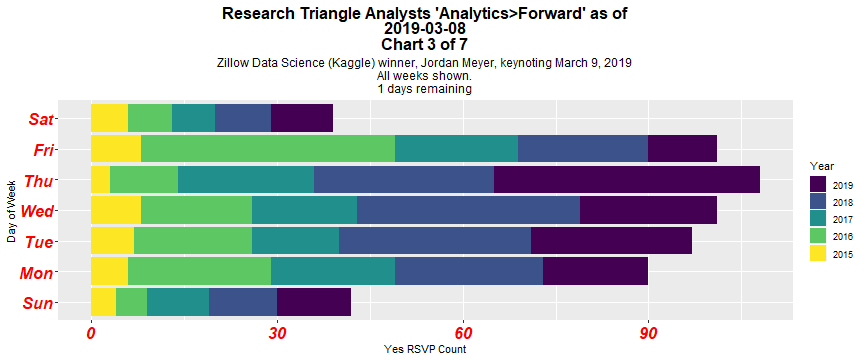
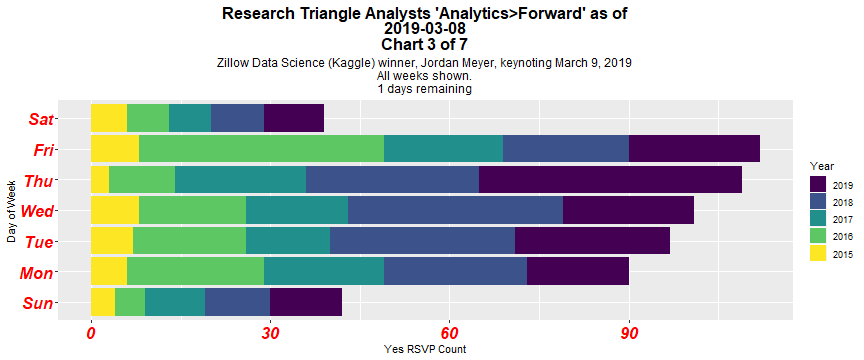
committed

diff --git a/README.md b/README.md
@@ -43,7 +43,7 @@ Week of event average Registrations per day
 | Tue           |              5|
 | Wed           |              6|
 | Thu           |              7|
-| Fri           |              1|
+| Fri           |             12|
 
 Highest Performing Days (Registrations)
 ---------------------------------------
@@ -54,6 +54,7 @@ Highest Performing Days (Registrations)
 |:----------------------------------------------------------------------|:-------------------|:--------|--------------------:|
 | Analytics&gt;Forward 2019                                             | 2019-01-31         | Thu     |                   19|
 | Analytics&gt;Forward, with Keynote by John Sall, EVP of SAS Institute | 2016-01-29         | Fri     |                   17|
+| Analytics&gt;Forward 2019                                             | 2019-03-08         | Fri     |                   13|
 | Analytics&gt;Forward, with Keynote by John Sall, EVP of SAS Institute | 2016-02-26         | Fri     |                   11|
 | Analytics&gt;Forward, with Keynote by John Sall, EVP of SAS Institute | 2016-03-07         | Mon     |                   11|
 | Analytics&gt;Forward 2018                                             | 2018-03-07         | Wed     |                   11|
@@ -64,16 +65,16 @@ Highest Performing Days (Registrations)
 | name                      | Registration\_Date | Weekday |  Registration\_Count|
 |:--------------------------|:-------------------|:--------|--------------------:|
 | Analytics&gt;Forward 2019 | 2019-01-31         | Thu     |                   19|
+| Analytics&gt;Forward 2019 | 2019-03-08         | Fri     |                   13|
 | Analytics&gt;Forward 2019 | 2019-02-26         | Tue     |                   10|
 | Analytics&gt;Forward 2019 | 2019-02-27         | Wed     |                    9|
+| Analytics&gt;Forward 2019 | 2019-02-28         | Thu     |                    9|
 | Analytics&gt;Forward 2019 | 2019-03-07         | Thu     |                    9|
-| Analytics&gt;Forward 2019 | 2019-02-28         | Thu     |                    8|
-| Analytics&gt;Forward 2019 | 2019-03-04         | Mon     |                    8|
 
 Total Registrations for Analytics&gt;Forward per year
 -----------------------------------------------------
 
-    ## [1] "As of  2019-03-08 08:10:18"
+    ## [1] "As of  2019-03-08 19:50:24"
 
 | name                                                                  |  Year|  Total\_Registrations|
 |:----------------------------------------------------------------------|-----:|---------------------:|
@@ -81,7 +82,7 @@ Total Registrations for Analytics&gt;Forward per year
 | Analytics&gt;Forward, with Keynote by John Sall, EVP of SAS Institute |  2016|                   124|
 | Analytics&gt;Forward                                                  |  2017|                   110|
 | Analytics&gt;Forward 2018                                             |  2018|                   161|
-| Analytics&gt;Forward 2019                                             |  2019|                   141|
+| Analytics&gt;Forward 2019                                             |  2019|                   153|
 
 Current Year Analytics&gt;Forward Registration Link
 ===================================================
